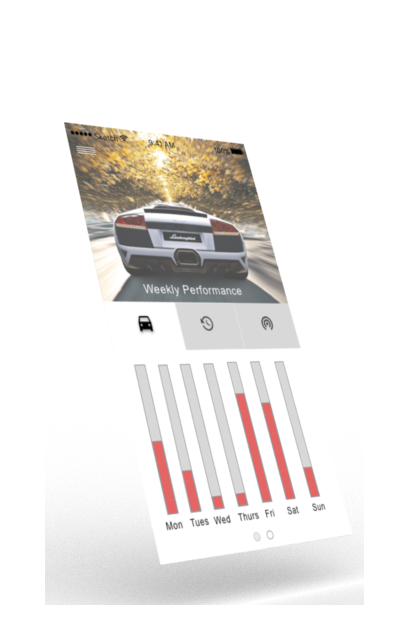
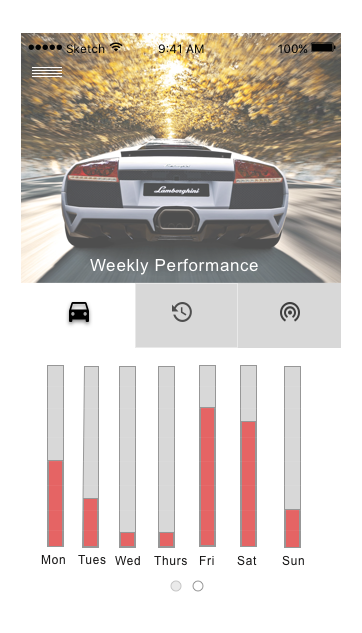
paygo added

diff --git a/index.html b/index.html
@@ -223,8 +223,8 @@
                     </a>
                 </div>
                 <div class="col-lg-4 col-sm-6">
-                    <a href="img/portfolio/fullsize/tinderfood.png" class="portfolio-box">
-                        <img src="img/portfolio/thumbnails/tinderfood.png" class="img-responsive" alt="" style="width:504px;height:328px;">
+                    <a href="img/portfolio/fullsize/tinder4food.png" class="portfolio-box">
+                        <img src="img/portfolio/thumbnails/tinder4food.png" class="img-responsive" alt="" style="width:504px;height:328px;">
                         <div class="portfolio-box-caption">
                             <div class="portfolio-box-caption-content">
                                 <div class="project-category text-faded">
@@ -252,6 +252,22 @@
                         </div>
                     </a>
                 </div>
+                <div class="col-lg-4 col-sm-6">
+                    <a href="img/portfolio/fullsize/paygo.png" class="portfolio-box">
+                        <img src="img/portfolio/thumbnails/paygo.png" class="img-responsive" alt="" style="width:504px;height:428px;">
+                        <div class="portfolio-box-caption">
+                            <div class="portfolio-box-caption-content">
+                                <div class="project-category text-faded">
+                                    UI/UX - mobile
+                                </div>
+                                <div class="project-name">
+                                    Pay as you go for Gas concept
+                                </div>
+                            </div>
+                        </div>
+                    </a>
+                </div>
+
             </div>
         </div>
     </section>
